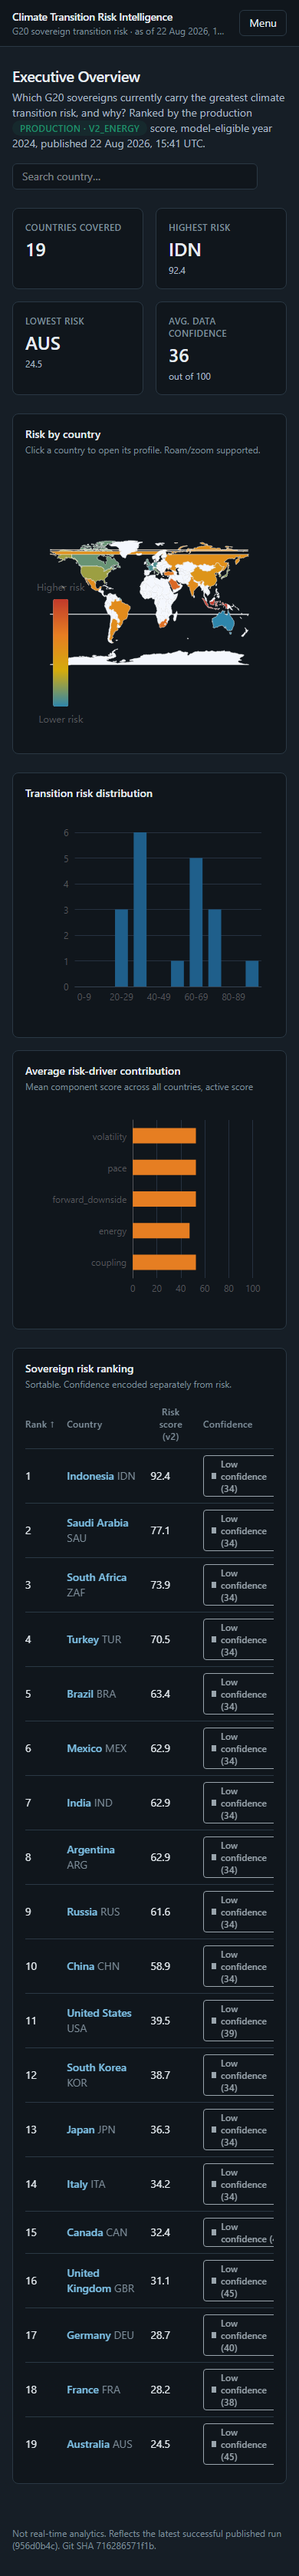
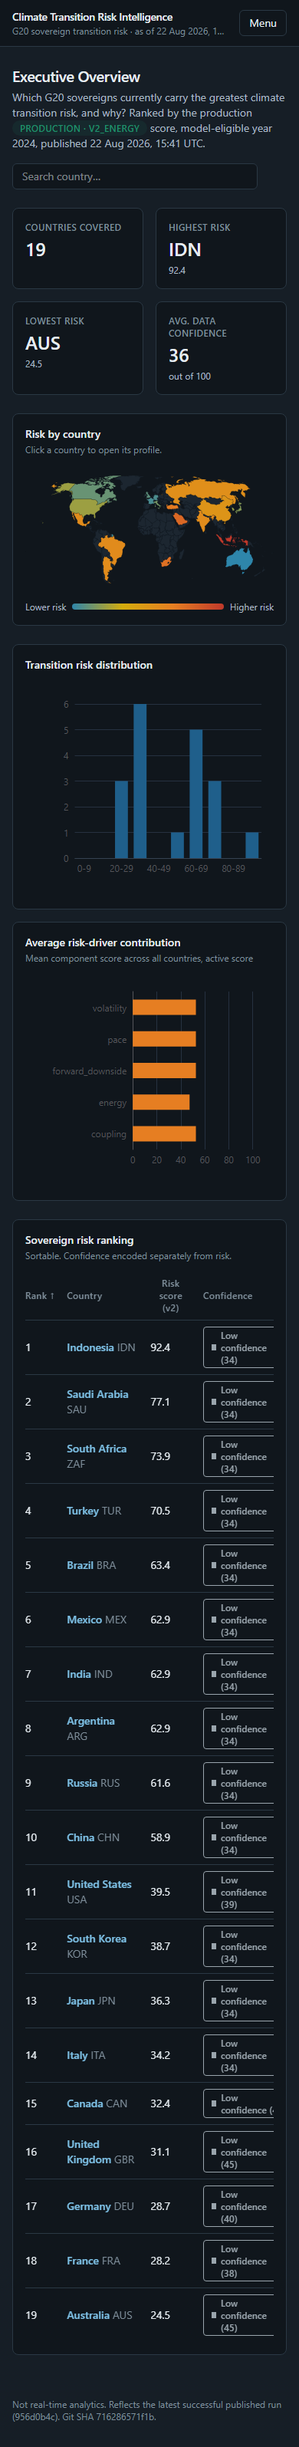
docs: record verified M10 deployment and M9 map-fix facts
Records what was actually verified in Azure for f0bf7f5be79e248591a47d38cb949f17b68f178b:
GitHub Actions as the canonical image builder (no local Docker in the
production supply chain), the two-phase Terraform promotion, gold/bi and
gold/web produced by the scheduled job's normal template and externally
verified via Entra auth, the live healthy API with all endpoints
returning 200, and the data_git_sha/api_git_sha provenance split. Also
notes the Executive Overview map root cause/fix and recaptures the two
screenshots the live map fix actually changed (the other five routes are
byte-identical, hence untouched).

diff --git a/README.md b/README.md
@@ -23,8 +23,8 @@ there is not claimed here until it is implemented, tested, and committed.
 | M6 | Energy-system transition features | **COMPLETE - production-verified in Azure.** Phase 1 (ADR 0007): OWID `energy-data` verified and ingested. Phase 2 (ADR 0008): pre-registered gate ACCEPTed the energy component (`p <= 0.10`, positive MAE improvement, weight robustness). Phase 3 (ADR 0009): 2000-permutation hardening, redundancy-reduced 2-signal spec frozen as `energy_component_v2.1`, `score_version=v2_energy`. `cli.score()` computes **both v1 and v2**; `cli.publish()` **requires both** and declares v2 active while preserving v1 as a comparison artifact. ADR 0010 records the failed `7f11e31` Azure promotion, the proven local-storage fallback root cause, the preventive invariant, the corrected `95b7fa4` image, external Entra-authenticated ADLS verification, manifest/pointer consistency, and local/Azure parity. |
 | M7 | Regime/structural-break research | **Complete**. Structural-break diagnostics are retained for interpretation, but formal regime-aware forecasting is not promoted. Phase 3 decision: **RECENCY_WEIGHTING_ONLY**. Phase 4 decision: **KEEP_EXISTING_EMPIRICAL_BOOTSTRAP_IN_PRODUCTION** because recency gains were small, country robustness failed, and P5-P95 coverage remained below the nominal 90% target. No production score, scenario engine, Azure schedule, or publish contract change. See ADR 0011-0014 plus `docs/m7_phase3_report.md` and `docs/m7_phase4_report.md`. |
 | M8 | Azure runtime | **COMPLETE - production-verified.** Terraform-managed resources live in `rg-climate-risk-dev` (uksouth): ADLS Gen2, four filesystems, Container Apps Environment + Job, two managed identities, RBAC, Log Analytics, lifecycle policy, and budget. Real Container Apps Job executions have succeeded end to end against live ADLS Gen2, including the M6 v2 production run `job-climate-risk-dev-pipeline-xsjvjwd`, with output identical to the local baseline and real Git/image provenance in the manifest. Weekly schedule: Monday 03:00 UTC. See `docs/finops.md`, ADR 0003-0010. |
-| M9 | React web dashboard (canonical product) + superseded Power BI prototype | **COMPLETE — deployed, live, and verified with real portfolio screenshots.** ADR 0016: the canonical M9 product changed from a native Power BI report to a React/TypeScript web dashboard (`web/`) — a distribution/portability decision, not a claim Power BI is technically impossible. The Power BI work (`powerbi/`, `docs/powerbi/`) is preserved as engineering history and marked superseded, not deleted; it includes a real, live-debugged record of 9 Desktop bugs found and fixed, with one unresolved report-canvas defect that ended that route (`docs/powerbi/native_report_status.md`). A deterministic `gold/web/` JSON publication layer (`climate-risk build-web`, ADR 0017) sits downstream of `gold/bi/` with a versioned manifest (schema version, provenance, per-file row counts/SHA-256, bundle hash). The React app (Vite + TypeScript + React Router + TanStack Query + Zod-validated contracts + ECharts) implements all 7 canonical routes against real data, with production (`v2_energy`/`empirical_bootstrap_v1`) vs comparison (`v1`) vs research-only (M7 diagnostics) semantics enforced throughout. Live in-browser verification against the real 19-country bundle caught and fixed a real bug (`echarts-for-react` never called `setOption` under echarts v6; replaced with a direct ECharts binding, `web/src/lib/useEcharts.ts`). **Deployed to GitHub Pages** (zero cost, `.github/workflows/deploy-web.yml`): **https://varunrout.github.io/climate-transition-risk-platform/**. 8 real Playwright screenshots (7 routes + one mobile capture) taken directly against that live deployment, chart-paint-aware (not faked, not loading states) — see `docs/web/screenshots/`. See ADR 0016, ADR 0017. |
-| M10 | Read-only FastAPI serving layer | **Code complete and locally verified; Azure deployment in progress.** Serves published `gold/web` output (never recomputes analytics), fails to start on an inconsistent bundle, versioned `/api/v1` contracts (Pydantic v2, no bare dicts), production/research semantics enforced in the response models. 36 new tests (275 total), including contract tests against real published artifacts. Dedicated `Dockerfile.api`, built and pushed to GHCR. Azure design reuses all existing infrastructure (Terraform plan verified 3 add / 0 change / 0 destroy: one scale-to-zero Container App, a dedicated read-only managed identity, one RBAC assignment) -- the identity and RBAC assignment are live; Container App creation is pending the GHCR package's visibility being switched to public (an anonymous pull for a private package fails identically for both `docker pull` and Azure, by design -- see `docs/api/deployment.md`). Web dashboard (M9) unmodified and still fully independent. See ADR 0018, `docs/api/`. |
+| M9 | React web dashboard (canonical product) + superseded Power BI prototype | **COMPLETE — deployed, live, and verified with real portfolio screenshots.** ADR 0016: the canonical M9 product changed from a native Power BI report to a React/TypeScript web dashboard (`web/`) — a distribution/portability decision, not a claim Power BI is technically impossible. The Power BI work (`powerbi/`, `docs/powerbi/`) is preserved as engineering history and marked superseded, not deleted; it includes a real, live-debugged record of 9 Desktop bugs found and fixed, with one unresolved report-canvas defect that ended that route (`docs/powerbi/native_report_status.md`). A deterministic `gold/web/` JSON publication layer (`climate-risk build-web`, ADR 0017) sits downstream of `gold/bi/` with a versioned manifest (schema version, provenance, per-file row counts/SHA-256, bundle hash). The React app (Vite + TypeScript + React Router + TanStack Query + Zod-validated contracts + ECharts) implements all 7 canonical routes against real data, with production (`v2_energy`/`empirical_bootstrap_v1`) vs comparison (`v1`) vs research-only (M7 diagnostics) semantics enforced throughout. Live in-browser verification against the real 19-country bundle caught and fixed a real bug (`echarts-for-react` never called `setOption` under echarts v6; replaced with a direct ECharts binding, `web/src/lib/useEcharts.ts`). **Deployed to GitHub Pages** (zero cost, `.github/workflows/deploy-web.yml`): **https://varunrout.github.io/climate-transition-risk-platform/**. 8 real Playwright screenshots (7 routes + one mobile capture) taken directly against that live deployment, chart-paint-aware (not faked, not loading states) — see `docs/web/screenshots/`. **Executive Overview map regression fixed**: the ECharts `map` series (plain equirectangular projection, no antimeridian-aware clipping) drew a long horizontal streak connecting Russia's antimeridian-split geometry, plus a wide band across the bottom from Antarctica's full-longitude-span geometry at extreme southern latitude. Replaced with a static `d3-geo`/`geoPath` SVG renderer (sphere-aware clipping fixes the Russia streak) that also drops Antarctica from the rendered collection (zero analytical relevance for a G20 map) and removes `roam: true` (no more accidental free zoom/pan) in favour of keyboard-focusable/activatable country paths. See ADR 0016, ADR 0017. |
+| M10 | Read-only FastAPI serving layer | **COMPLETE — deployed, healthy, and verified live.** Serves published `gold/web` output (never recomputes analytics), fails to start on an inconsistent bundle, versioned `/api/v1` contracts (Pydantic v2, no bare dicts), production/research semantics enforced in the response models. Root cause of the original CrashLoopBackOff: `gold/bi`/`gold/web` had only ever been published locally — the scheduled Container Apps Job's `run` chain never included the product-publication stage. Fixed with a persistent `climate-risk publish-product` stage invoked by `run()` right after core `publish()` succeeds (never a one-off `--command` override); core analytical publication stays the fail-closed barrier, product-publication failures are reported loudly but never corrupt or roll back a valid core release (ADR 0019). Container images are now built by **GitHub Actions**, not local Docker (`.github/workflows/build-containers.yml`): immutable full-Git-SHA GHCR tags, OCI revision labels, GHA build cache, machine-readable digest artifacts, anonymous-pull verified for both `climate-risk-pipeline` and `climate-risk-api`. Live API: **https://ca-climate-risk-dev-api.ambitiousbush-97a2aedf.uksouth.azurecontainerapps.io** (`/docs`, `/redoc`, `/openapi.json`), scale-to-zero (min replicas 0), `id-climate-risk-api` managed identity with **Storage Blob Data Reader only** (no keys/SAS/connection strings). `/api/v1/meta` exposes `data_git_sha` (the pipeline commit that produced the served bundle) and `api_git_sha`/`api_image_digest` (this API application's own build) as distinct fields, not one overloaded value. Local/Azure response parity verified byte-for-byte except 4/345 backtest rows differing at ~1e-13 relative floating-point precision (cross-platform BLAS/numpy noise, not a data or logic bug). Web dashboard (M9) unmodified and still fully independent. See ADR 0018, ADR 0019, `docs/api/`. |
 | M11 | v1 release (data revision analysis, reproducibility test, evidence bundle, governance/hardening) | Not implemented. The fail-closed `publish` barrier itself is implemented and production-verified (a prerequisite for M11, not M11 itself) — see `docs/adr/`. |
 
 Production container: **implemented, pushed, and running in production**.
@@ -199,15 +199,28 @@ existing source-snapshot/config-hash/git-SHA provenance.
 
 ## Container image
 
+**GitHub Actions is the canonical image builder** (`.github/workflows/build-containers.yml`)
+— triggered on every push to `master` touching `src/**`/`Dockerfile*`/`pyproject.toml`, or
+manually via `gh workflow run build-containers.yml --ref master -f image=all`. Local Docker
+Desktop is never required to produce a production image; the Dockerfiles below remain useful
+for local development/testing only.
+
 ```bash
 docker build -t climate-risk-pipeline:$(git rev-parse --short HEAD) .
 docker run --rm -v /path/to/lake:/data/lake climate-risk-pipeline:latest run
 ```
 
 Multi-stage, non-root, `python:3.12-slim` base, locked production-only deps.
-Public image on GitHub Container Registry:
-`ghcr.io/varunrout/climate-risk-pipeline:95b7fa4` (immutable git-SHA tag,
-anonymous-pull verified; current Azure production tag - see ADR 0010).
+Public images on GitHub Container Registry, built on GitHub-hosted runners with
+immutable full-Git-SHA tags, OCI revision labels, and anonymous-pull verification
+in CI:
+`ghcr.io/varunrout/climate-risk-pipeline:f0bf7f5be79e248591a47d38cb949f17b68f178b`
+(digest `sha256:3b20853de6e85ca5cc67ae698576a3a3a55da4ac762103d8d6be2eac794ccbf9`)
+and `ghcr.io/varunrout/climate-risk-api:f0bf7f5be79e248591a47d38cb949f17b68f178b`
+(digest `sha256:46123ace84ab8661c270873b5746a48872c2336b60ee2e62ddf2e1de1c9e7249`)
+— both the current Azure production tags (see ADR 0010, ADR 0019). Each build also
+uploads a machine-readable `pipeline-image.json`/`api-image.json` artifact
+(`git_sha`, `image`, `digest`) so a deploy step never has to copy text out of logs.
 Storage is backend-neutral
 (`climate_risk.storage`, see ADR 0004) — the same image runs unchanged
 against a local mounted volume or live Azure Data Lake Storage Gen2.
@@ -217,21 +230,28 @@ against a local mounted volume or live Azure Data Lake Storage Gen2.
 `infra/` (Terraform) defines a deliberately minimal, low-cost dev
 environment, **deployed and verified**: one resource group
 (`rg-climate-risk-dev`, `uksouth`), ADLS Gen2 (Standard_LRS, 4 filesystems),
-one Container Apps Environment + one unified Container Apps Job
-(Consumption, scale-to-zero) pulling the public GHCR image above (no
-Azure Container Registry), Log Analytics only (0.1GB/day cap, 30-day
-retention), two least-privilege managed identities (the job's identity
-authenticates to ADLS via `ManagedIdentityCredential` only — no keys/SAS
-anywhere), and a Cost Management budget with 50/80/100% alerts.
+one Container Apps Environment + one unified Container Apps Job pulling the
+pipeline image, plus one scale-to-zero API Container App pulling the API
+image (both public GHCR images above, built by GitHub Actions, no Azure
+Container Registry), Log Analytics only (0.1GB/day cap, 30-day retention),
+three least-privilege managed identities (`id-climate-risk-job`:
+Storage Blob Data Contributor; `id-climate-risk-api`: Storage Blob Data
+Reader *only*; `id-climate-risk-deploy`: scoped Contributor/RBAC-admin for
+CI — each authenticates via `ManagedIdentityCredential`/OIDC only, no
+keys/SAS/connection strings anywhere), and a Cost Management budget with
+50/80/100% alerts.
 
-Three real Container Apps Job executions have run the full pipeline —
-ingestion → silver → backtest → score → publish — end to end against live
-ADLS Gen2 storage, each producing output identical to the local baseline
+The scheduled Container Apps Job runs the full pipeline — ingestion →
+silver → backtest → score → **core publish → product publication
+(`gold/bi` + `gold/web`)** — end to end against live ADLS Gen2 storage
+using its *normal* Terraform-managed template (no per-execution command/
+image/env overrides), producing output identical to the local baseline
 (same `snapshot_set_id`, same backtest metrics, same country scores; see
-ADR 0005, ADR 0006). The published manifest now carries a real `git_sha`
-(baked in at image build time via a `GIT_SHA` Docker build-arg — `.git`
-itself is never copied into the image), alongside the image ref/digest and
-`azure_job_execution_id`.
+ADR 0005, ADR 0006, ADR 0019). The published manifest carries a real
+`git_sha` (baked in at image build time via a `GIT_SHA` Docker build-arg —
+`.git` itself is never copied into the image), alongside the image
+ref/digest and `azure_job_execution_id`; the same `git_sha` is what the
+live API's `/api/v1/meta` exposes as `data_git_sha`.
 
 **Recurring execution is enabled**: `trigger_type = "Schedule"`, weekly,
 **Monday 03:00 UTC** — matches OWID's and World Bank's own weekly/monthly

diff --git a/docs/adr/0019-m10-product-publication-in-production-pipeline.md b/docs/adr/0019-m10-product-publication-in-production-pipeline.md
@@ -115,3 +115,28 @@ Container App is expected to recover.
   exit) rather than silently leaving a stale-but-undetected `gold/web`.
 - No new Azure resources, no new schedule, no change to job CPU/memory/
   retry/timeout/identity -- only the container image reference changes.
+
+## Addendum: rollout executed
+
+The rollout above was carried out for real, against the commit tagged
+`f0bf7f5be79e248591a47d38cb949f17b68f178b`:
+
+- Both `climate-risk-pipeline` and `climate-risk-api` images were built by
+  **GitHub Actions** (`.github/workflows/build-containers.yml`), not local
+  Docker -- local Docker Desktop is no longer part of the production image
+  supply chain. Digests: pipeline
+  `sha256:3b20853de6e85ca5cc67ae698576a3a3a55da4ac762103d8d6be2eac794ccbf9`,
+  API `sha256:46123ace84ab8661c270873b5746a48872c2336b60ee2e62ddf2e1de1c9e7249`.
+- Two controlled Terraform promotions (pipeline first, then API, each
+  0 add / 1 change / 0 destroy) -- never simultaneous, since the API can't
+  start until `gold/web` exists.
+- The scheduled job's *normal* template (no overrides) produced
+  `gold/bi` + `gold/web` in Azure, verified via Entra-authenticated reads:
+  `source_run_id`, `source_git_sha` (matching the commit above),
+  `active_score_version=v2_energy`, `active_scenario_method=
+  empirical_bootstrap_v1`, per-file row counts and SHA-256 hashes, and a
+  bundle hash, all present and consistent.
+- The API recovered from `CrashLoopBackOff` to healthy; all documented
+  endpoints return 200 live. `/api/v1/meta` now separates `data_git_sha`
+  (the pipeline commit that produced the bundle) from `api_git_sha`
+  (this API image's own commit) -- see ADR 0018 for why that split matters.
